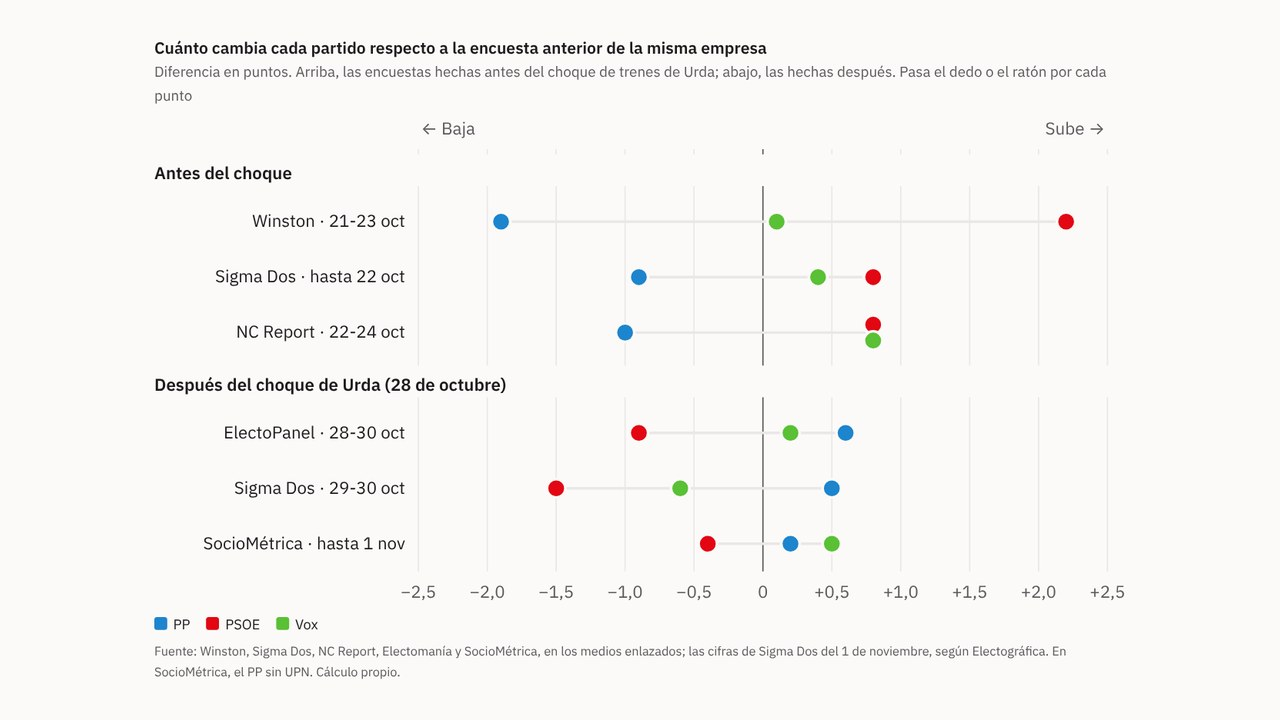
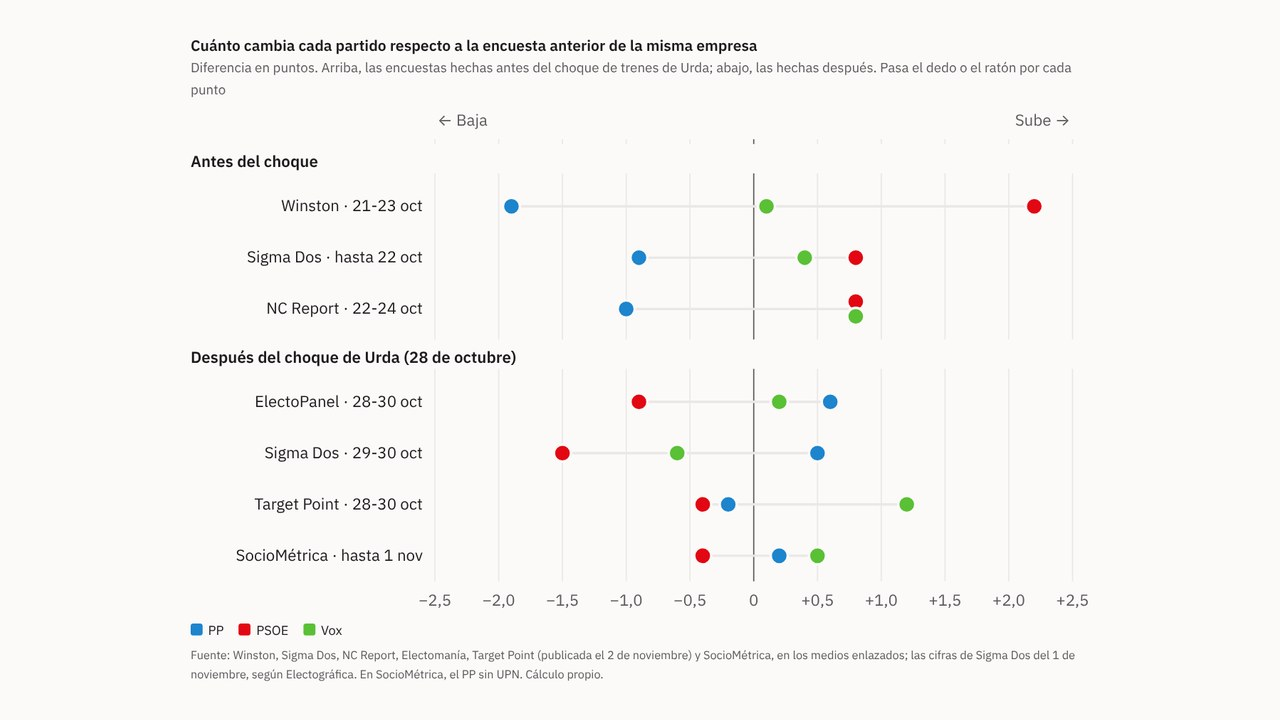
Encuestas tras Urda: correcciones del editor (Target Point en el gráfico, «hechas después del choque»)
Claude-Session: https://claude.ai/code/session_01QuTKNEe4qRt6ao42Xv59ca

diff --git a/actualidad/encuestas-antes-despues-urda-29n/index.html b/actualidad/encuestas-antes-despues-urda-29n/index.html
@@ -40,7 +40,7 @@
  "mainEntityOfPage": "https://mapaelectoral.es/actualidad/encuestas-antes-despues-urda-29n/",
  "inLanguage": "es",
  "datePublished": "2026-11-02",
- "dateModified": "2026-11-03T07:57:00+01:00",
+ "dateModified": "2026-11-03T08:07:00+01:00",
  "image": [
   "https://mapaelectoral.es/img/actualidad/fotos/encuestas-antes-despues-urda-29n.jpg",
   "https://mapaelectoral.es/img/compartir/actualidad-encuestas-antes-despues-urda-29n.jpg"
@@ -221,22 +221,22 @@ aside.municipios-pieza .prov{color:var(--muted);font-size:.9em}
 <p class="kicker"><a href="../">Actualidad</a> · Las encuestas, semana a semana · España</p>
 <h1>Cuatro de cuatro: el PSOE baja en todas las encuestas hechas tras el choque de Urda</h1>
 <p class="dek">En las encuestas con trabajo de campo anterior al 28 de octubre, el PSOE ganaba entre ocho décimas y algo más de dos puntos respecto a la anterior de la misma empresa. En las cuatro hechas después, pierde entre cuatro décimas y punto y medio. Nuestro modelo da hoy a PP y Vox 200 escaños.</p>
-<p class="firma">Por <a href="../../sobre-mi.html">Nacho G. del Álamo</a> · <time datetime="2026-11-02">2 de noviembre de 2026</time> · Actualizado el <time datetime="2026-11-03T07:57:00+01:00">3 de noviembre de 2026, a las 07.57</time></p>
+<p class="firma">Por <a href="../../sobre-mi.html">Nacho G. del Álamo</a> · <time datetime="2026-11-02">2 de noviembre de 2026</time> · Actualizado el <time datetime="2026-11-03T08:07:00+01:00">3 de noviembre de 2026, a las 08.07</time></p>
 <figure class="foto"><img src="../../img/actualidad/fotos/encuestas-antes-despues-urda-29n.jpg" alt="Dos montones de cuestionarios separados por un desgarro, uno sobre rojo y otro sobre azul bajo una lupa, junto a una urna: un collage." width="1280" height="720"><figcaption>Dos montones de cuestionarios separados por un desgarro, uno sobre rojo y otro sobre azul bajo una lupa, junto a una urna: un collage. Ilustración generada con IA para Mapa Electoral. <a href="../../atlas/politica-editorial/#ia">Uso de IA</a>.</figcaption></figure>
 <p class="etiquetas">Cada párrafo lleva una etiqueta: <b>dato</b> (cifra comprobable con las fuentes), <b>patrón</b> (relación que se repite, sin afirmar la causa), <b>hipótesis</b> (explicación posible, sin dos fuentes independientes) o <b>contexto</b> (hechos y declaraciones publicados por otros, enlazados). <a href="../../atlas/politica-editorial/#verificacion">Cómo verificamos</a></p>
 <div style="margin-top:1.4rem"></div>
 <style>:root{--podemos:#5a3c8f}@media (prefers-color-scheme: dark){:root:not([data-theme="light"]){--podemos:#8a6fe0}}:root[data-theme="dark"]{--podemos:#8a6fe0}blockquote.cita{margin:1.8rem 0;padding:.2rem 0 .2rem 1.1rem;border-left:3px solid var(--rule)}blockquote.cita p{font-size:1.12rem;line-height:1.5;margin:0 0 .4rem}blockquote.cita footer{font-family:var(--ui);font-size:.95rem;color:var(--muted)}</style>
 <p data-tipo="contexto"><span class="tipo t-contexto">Contexto</span>El miércoles 28 de octubre, a las 8.53, un AVE que iba de Madrid a Sevilla chocó contra la cola de un tren de Iryo entre Los Yébenes y Urda, en Toledo. Han muerto 69 personas, según el último balance recogido por <a href="https://rtvc.es/ultima-hora-accidente-trenes-ave-yryo-sevilla-madrid-toledo-directo-heridos-30-octubre-2026/">RTVC</a>. Es el segundo accidente ferroviario grave del año, después del de Adamuz (Córdoba) en enero, como recuerda <a href="https://maldita.es/desinfo/20261028/preguntas-respuestas-accidente-tren-urda/">Maldita</a>. Desde entonces, el PP pide la dimisión del ministro de Transportes, Óscar Puente, que es candidato del PSOE por Valladolid, según <a href="https://www.democrata.es/politica/pp-exige-dimision-oscar-puente-accidente-tren-urda/">Demócrata</a>. Puente ha descartado dimitir.</p>
 <p data-tipo="contexto"><span class="tipo t-contexto">Contexto</span>Esta es la segunda entrega de nuestro repaso semanal de las encuestas. Como en la <a href="https://mapaelectoral.es/actualidad/encuestas-semana-29n/">primera</a>, comparamos cada sondeo con el anterior de la misma empresa, porque cada casa tiene su método y mezclarlas confunde lo que se mueve con lo que es distinto. Esta semana, además, el calendario parte las encuestas en dos: las que se hicieron antes del choque y las que se hicieron después.</p>
-<div class="caja"><p data-tipo="dato"><span class="tipo t-dato">Dato</span><strong>Actualización del 3 de noviembre.</strong> El lunes se publicaron tres encuestas más, y la que se hizo entera después del choque sigue el mismo patrón. La de <a href="https://www.eldebate.com/espana/20261102/accidente-frena-psoe-amplia-apoyo-pp-mayoria-absolutisima-derecha_475640.html">Target Point para El Debate</a>, con campo del 28 al 30 de octubre, deja al PSOE en el 25,5%, cuatro décimas menos que en su entrega anterior, del 6 al 9 de octubre; el PP baja dos décimas, al 31,8%, y Vox sube 1,2 puntos, al 19,9%. La de <a href="https://www.vozpopuli.com/espana/politica/pp-y-vox-suman-ya-un-techo-historico-de-127-millones-de-votos-y-lograrian-205-escanos.html">Hamalgama Métrica para Vozpópuli</a> se hizo del 22 al 28 de octubre, casi toda antes del accidente, y es la contraria: el PSOE sube 1,1 puntos, al 26,4%, y el PP baja un punto, al 32,4%. La de <a href="https://www.larazon.es/espana/psoe-frena-efecto-remontada-derecha-consolida-mayoria-absoluta_202611026ae783220250123215703bb1.html">NC Report para La Razón</a>, del 26 al 29 de octubre, a caballo del choque, apenas se mueve respecto a la de la semana anterior: PSOE 25,6% (dos décimas menos), PP 33,0% (una menos) y Vox 19,3% (tres más). Las fechas de campo son las que recoge <a href="https://en.wikipedia.org/wiki/Opinion_polling_for_the_2026_Spanish_general_election">Wikipedia</a>.</p></div>
-<p data-tipo="dato"><span class="tipo t-dato">Dato</span>Con la de Target Point, son cuatro las encuestas con todo el trabajo de campo posterior al 28 de octubre, y en las cuatro el PSOE baja respecto a la anterior de la misma empresa. Con las nuevas, <a href="https://mapaelectoral.es/encuestas/metodo-modelo.html">nuestro modelo</a> da hoy a PP y Vox 200 escaños (PP 130, PSOE 104, Vox 70) y la mayoría absoluta en el 94% de las simulaciones. El resto de la pieza es el análisis del 2 de noviembre.</p>
-<h2>Seis encuestas, dos direcciones</h2>
+<div class="caja"><p data-tipo="dato"><span class="tipo t-dato">Dato</span><strong>Actualización del 3 de noviembre.</strong> El lunes se publicaron tres encuestas más, y la que se hizo después del choque sigue el mismo patrón. La de <a href="https://www.eldebate.com/espana/20261102/accidente-frena-psoe-amplia-apoyo-pp-mayoria-absolutisima-derecha_475640.html">Target Point para El Debate</a>, con campo del 28 al 30 de octubre, deja al PSOE en el 25,5%, cuatro décimas menos que en su entrega anterior, del 6 al 9 de octubre; el PP baja dos décimas, al 31,8%, y Vox sube 1,2 puntos, al 19,9%. La de <a href="https://www.vozpopuli.com/espana/politica/pp-y-vox-suman-ya-un-techo-historico-de-127-millones-de-votos-y-lograrian-205-escanos.html">Hamalgama Métrica para Vozpópuli</a> se hizo del 22 al 28 de octubre, casi toda antes del accidente, y es la contraria: el PSOE sube 1,1 puntos, al 26,4%, y el PP baja un punto, al 32,4%. La de <a href="https://www.larazon.es/espana/psoe-frena-efecto-remontada-derecha-consolida-mayoria-absoluta_202611026ae783220250123215703bb1.html">NC Report para La Razón</a>, del 26 al 29 de octubre, a caballo del choque, apenas se mueve respecto a la de la semana anterior: PSOE 25,6% (dos décimas menos), PP 33,0% (una menos) y Vox 19,3% (tres más). Las fechas de campo son las que recoge <a href="https://en.wikipedia.org/wiki/Opinion_polling_for_the_2026_Spanish_general_election">Wikipedia</a>.</p></div>
+<p data-tipo="dato"><span class="tipo t-dato">Dato</span>Con la de Target Point, son cuatro las encuestas hechas después del choque, y en las cuatro el PSOE baja respecto a la anterior de la misma empresa. Con las nuevas, <a href="https://mapaelectoral.es/encuestas/metodo-modelo.html">nuestro modelo</a> da hoy a PP y Vox 200 escaños (PP 130, PSOE 104, Vox 70) y la mayoría absoluta en el 94% de las simulaciones. El resto de la pieza es el análisis del 2 de noviembre.</p>
+<h2>Dos direcciones: antes y después del choque</h2>
 <p data-tipo="dato"><span class="tipo t-dato">Dato</span>Entre el lunes 26 de octubre y el domingo 1 de noviembre se publicaron siete encuestas nacionales con estimación de voto. Seis tienen una entrega reciente de la misma empresa con la que compararlas. Tres se hicieron antes del accidente: la de <a href="https://www.articulo14.es/politica/encuesta-articulo14-el-psoe-se-coloca-6-escanos-del-pp-que-mantiene-una-mayoria-de-190-escanos-con-vox-20261026.html">Winston para Artículo14</a>, la de <a href="https://www.sigmados.com/noticia?id=OUze2FxEIVfARtu3">Sigma Dos para El Mundo</a> del 26 de octubre y la de <a href="https://www.larazon.es/espana/18-votantes-socialistas-apoyan-hoy-vox_202610266adea62a3eef771e1ac8d43d.html">NC Report para La Razón</a>. Tres, después: el <a href="https://electomania.es/electopanel-1-nov-el-psoe-baja-y-vuelve-a-minimos/">ElectoPanel de Electomanía</a>, con campo del 28 al 30 de octubre; la nueva de <a href="https://www.electografica.com/2026/11/encuesta-sigmados-261101.html">Sigma Dos</a>, del 29 y el 30, y la de <a href="https://www.elespanol.com/espana/politica/20261101/primer-sondeo-tragedia-pp-vox-amplian-ventaja-sanchez-sigue-cayendo-pese-vaciar-frente-amplio/1003744442810_0.html">SocioMétrica para El Español</a>, publicada el domingo.</p>
 <figure>
 <figcaption><span class="t">Cuánto cambia cada partido respecto a la encuesta anterior de la misma empresa</span><span class="s">Diferencia en puntos. Arriba, las encuestas hechas antes del choque de trenes de Urda; abajo, las hechas después. Pasa el dedo o el ratón por cada punto</span></figcaption>
 <div class="chart" id="cambios"></div>
 <div class="legend"><span><i class="sw" style="background:var(--pp)"></i>PP</span><span><i class="sw" style="background:var(--psoe)"></i>PSOE</span><span><i class="sw" style="background:var(--vox)"></i>Vox</span></div>
-<div class="src">Fuente: Winston, Sigma Dos, NC Report, Electomanía y SocioMétrica, en los medios enlazados; las cifras de Sigma Dos del 1 de noviembre, según Electográfica. En SocioMétrica, el PP sin UPN. Cálculo propio.</div>
+<div class="src">Fuente: Winston, Sigma Dos, NC Report, Electomanía, Target Point (publicada el 2 de noviembre) y SocioMétrica, en los medios enlazados; las cifras de Sigma Dos del 1 de noviembre, según Electográfica. En SocioMétrica, el PP sin UPN. Cálculo propio.</div>
 <details><summary>Ver las cifras</summary><div class="tbl" id="cambios-tbl"></div></details>
 </figure>
 <p data-tipo="dato"><span class="tipo t-dato">Dato</span>En las tres anteriores al choque, <strong>el PSOE sube</strong>: 2,2 puntos en Winston y 0,8 en Sigma Dos y en NC Report. El PP baja en las tres, entre 0,9 y 1,9 puntos. En las tres posteriores pasa lo contrario: <strong>el PSOE baja</strong> 0,9 puntos en el ElectoPanel, 1,5 en Sigma Dos y 0,4 en SocioMétrica, y el PP sube entre dos y seis décimas.</p>
@@ -272,7 +272,7 @@ aside.municipios-pieza .prov{color:var(--muted);font-size:.9em}
 <dt>Fuentes</dt><dd><ul><li><a href="https://www.articulo14.es/politica/encuesta-articulo14-el-psoe-se-coloca-6-escanos-del-pp-que-mantiene-una-mayoria-de-190-escanos-con-vox-20261026.html">Winston para Artículo14 (26-10-2026)</a></li><li><a href="https://www.sigmados.com/noticia?id=OUze2FxEIVfARtu3">Sigma Dos para El Mundo (26-10-2026)</a></li><li><a href="https://www.larazon.es/espana/18-votantes-socialistas-apoyan-hoy-vox_202610266adea62a3eef771e1ac8d43d.html">NC Report para La Razón (26-10-2026)</a></li><li><a href="https://electomania.es/electopanel-1-nov-el-psoe-baja-y-vuelve-a-minimos/">ElectoPanel de Electomanía (1-11-2026)</a></li><li><a href="https://www.electografica.com/2026/11/encuesta-sigmados-261101.html">Electográfica, encuesta de Sigma Dos para El Mundo (1-11-2026)</a></li><li><a href="https://www.elespanol.com/espana/politica/20261101/primer-sondeo-tragedia-pp-vox-amplian-ventaja-sanchez-sigue-cayendo-pese-vaciar-frente-amplio/1003744442810_0.html">SocioMétrica para El Español (1-11-2026)</a></li><li><a href="https://www.lavozdegalicia.es/noticia/espana/2026/11/01/pp-ganaria-elecciones-23-puntos-ventaja-sobre-psoe/0003_202611G1P26991.htm">Sondaxe para La Voz de Galicia (1-11-2026)</a></li><li><a href="https://theobjective.com/espana/2026-11-01/sondeo-vox-71-escanos/">The Objective, sondeo atribuido a Vox (1-11-2026)</a></li><li><a href="https://democrata.es/encuestas/elecciones-generales/encuesta-elecciones-generales-sondeo-interno-vox-anterior-urda-situa-psoe-por-delante-pp-pero-mantiene-mayoria-derecha">Demócrata, Vox desmiente el sondeo (1-11-2026)</a></li><li><a href="https://maldita.es/desinfo/20261028/preguntas-respuestas-accidente-tren-urda/">Maldita, preguntas y respuestas sobre el accidente de Urda (28-10-2026)</a></li><li><a href="https://rtvc.es/ultima-hora-accidente-trenes-ave-yryo-sevilla-madrid-toledo-directo-heridos-30-octubre-2026/">RTVC, balance del accidente de Urda (30-10-2026)</a></li><li><a href="https://www.democrata.es/politica/pp-exige-dimision-oscar-puente-accidente-tren-urda/">Demócrata, el PP exige la dimisión de Óscar Puente</a></li><li><a href="https://mapaelectoral.es/encuestas/metodo-modelo.html">Mapa Electoral, método del modelo de escaños</a></li></ul></dd>
 <dt>Autoría</dt><dd>Nacho G. del Álamo</dd>
 <dt>Revisión de datos y texto</dt><dd>Nacho G. del Álamo, 2 de noviembre de 2026</dd>
-<dt>Publicado · actualizado</dt><dd>2 de noviembre de 2026 · 3 de noviembre de 2026, a las 07.57</dd>
+<dt>Publicado · actualizado</dt><dd>2 de noviembre de 2026 · 3 de noviembre de 2026, a las 08.07</dd>
 <dt>Correcciones</dt><dd>Ninguna.</dd>
 </dl>
 <h2>Serie «Camino al 29N»: 105 piezas</h2><ol class="serie"><li><a href="../mujeres-jovenes-voto-29n/"><b>El voto a Vox de las mujeres jóvenes se ha triplicado desde 2023, y la izquierda ha perdido 13 puntos entre ellas</b></a></li><li><a href="../psoe-primera-fuerza-29n/"><b>El PP saca 6 puntos al PSOE en las encuestas: ni el mayor fallo de la última década, el de 2023, daría el sorpasso que anuncia Iván Redondo</b></a></li><li><a href="../encuestas-semana-29n/"><b>El PP baja en las cinco encuestas de la semana, pero con Vox sigue sumando mayoría absoluta en todas</b></a></li><li><a href="../alvise-salf-donde-vota-29n/"><b>Madrid es la puerta más cercana de Alvise al Congreso: le basta el 3% y las encuestas le dan el 2%</b></a></li><li><a href="../feijoo-albiol-barcelona-disturbios-29n/"><b>Feijóo busca el voto del orden en la comunidad que más cita la inseguridad</b></a></li><li><a href="../dana-pueblos-primeras-generales-29n/"><b>Dos años de la DANA: sus 74 pueblos llegan al 29N partidos, 38 del PSOE y 36 del PP</b></a></li><li><a href="../puente-valladolid-segundo-escano-29n/"><b>Puente descarta dimitir y se juega en Valladolid el escaño de su número dos: sale en el 54%</b></a></li><li><a href="../rufian-montero-la-revuelta-29n/"><b>Rufián le guarda a Podemos el puesto 6: sale en 7 de cada 10 simulaciones</b></a></li><li><a href="../comuns-psc-senado-girona-lleida-tarragona-29n/"><b>Sin los Comuns, Vox podría ganar el Senado en Tarragona</b></a></li><li><a href="../pacto-pp-vox-senado-provincias-29n/"><b>PP y Vox pactan el Senado: con las encuestas sumarían entre 158 y 163 senadores, alrededor de los 160 que necesitan para renovar el Constitucional sin el PSOE</b></a></li><li><a href="../listas-29n-quien-encabeza/"><b>¿Sale tu candidato? Con las listas oficiales del BOE, 250 escaños están casi decididos y 204 candidatos se juegan los otros 100</b></a></li><li><a href="../voto-correo-29n/"><b>Siete de cada cien electores pidieron votar por correo en 2023, más del triple que en 2015: en Bizkaia, 14; en Girona, 3</b></a></li><li><a href="../corrupcion-penaliza-voto-29n/"><b>29N: la corrupción le cuesta votos al PSOE, pero apenas se los da al PP</b></a></li><li><a href="../adelante-andalucia-psoe-29n/"><b>Uno de cada tres votantes de Adelante venía del PSOE, pero el mapa andaluz no muestra la fuga</b></a></li><li><a href="../inmigracion-cuesta-votos-psoe-29n/"><b>La inmigración ya le cuesta votos al PSOE, no solo al PP</b></a></li><li><a href="../quien-vota-barrios-renta-edad-inmigracion/"><b>En los barrios ricos se vota 15 puntos más que en los pobres, y en las europeas, 22: quién vota en España según la renta, la edad y la inmigración</b></a></li><li><a href="../barrios-caseros-inquilinos-voto-29n/"><b>Donde viven los caseros gana el PP; donde viven los inquilinos, gana la abstención</b></a></li><li><a href="../me-ha-tocado-mesa-electoral-29n/"><b>En los pueblos de menos de 100 electores, la mesa necesita a uno de cada seis vecinos; en las ciudades, a uno de cada setenta</b></a></li><li aria-current="page"><span class="kicker">Estás aquí</span><b>Cuatro de cuatro: el PSOE baja en todas las encuestas hechas tras el choque de Urda</b></li><li><a href="../banez-huelva-pp-29n/"><b>Fátima Báñez encabezó seis veces la lista del PP en Huelva: ganó la provincia una vez, y nunca en su pueblo</b></a></li><li class="todas"><a href="../#29n"><b>Ver las 105 piezas de la serie</b></a></li></ol>
@@ -282,7 +282,7 @@ aside.municipios-pieza .prov{color:var(--muted);font-size:.9em}
 </main>
 <script>
 const NS='http://www.w3.org/2000/svg';
-const CAM=[["Winston", "Artículo14", "21-23 oct", 0, "1 oct", [31.3, 24.9, 19.1], [29.4, 27.1, 19.2]], ["Sigma Dos", "El Mundo", "hasta 22 oct", 0, "14 oct", [31.5, 25.3, 19.5], [30.6, 26.1, 19.9]], ["NC Report", "La Razón", "22-24 oct", 0, "6 oct", [34.1, 25.0, 18.2], [33.1, 25.8, 19.0]], ["ElectoPanel", "Electomanía", "28-30 oct", 1, "25 oct", [30.9, 26.7, 19.0], [31.5, 25.8, 19.2]], ["Sigma Dos", "El Mundo", "29-30 oct", 1, "26 oct", [30.6, 26.1, 19.9], [31.1, 24.6, 19.3]], ["SocioMétrica", "El Español", "hasta 1 nov", 1, "25 oct", [32.0, 27.0, 18.6], [32.2, 26.6, 19.1]]], SEM=[{"d": "2026-08-30", "PP": 32.3, "PSOE": 25.7, "VOX": 18.1, "SUMAR": 6.4, "PODEMOS": 3.6, "SALF": 1.9}, {"d": "2026-09-06", "PP": 32.0, "PSOE": 26.1, "VOX": 18.1, "SUMAR": 6.3, "PODEMOS": 3.6, "SALF": 1.8}, {"d": "2026-09-13", "PP": 32.3, "PSOE": 25.9, "VOX": 18.5, "SUMAR": 6.2, "PODEMOS": 3.4, "SALF": 1.9}, {"d": "2026-09-20", "PP": 32.2, "PSOE": 25.9, "VOX": 18.8, "SUMAR": 5.9, "PODEMOS": 3.3, "SALF": 1.9}, {"d": "2026-09-27", "PP": 33.7, "PSOE": 25.6, "VOX": 18.6, "SUMAR": 6.1, "PODEMOS": 3.3, "SALF": 1.9}, {"d": "2026-10-04", "PP": 33.2, "PSOE": 26.3, "VOX": 18.4, "SUMAR": 6.3, "PODEMOS": 3.3, "SALF": 1.7}, {"d": "2026-10-11", "PP": 32.0, "PSOE": 26.2, "VOX": 18.8, "SUMAR": 6.3, "PODEMOS": 3.2, "SALF": 1.8}, {"d": "2026-10-18", "PP": 31.9, "PSOE": 26.3, "VOX": 18.9, "SUMAR": 6.2, "PODEMOS": 3.0, "SALF": 1.8}, {"d": "2026-10-25", "PP": 31.4, "PSOE": 27.0, "VOX": 18.9, "SUMAR": 6.6, "PODEMOS": 2.6, "SALF": 1.8}, {"d": "2026-11-01", "PP": 31.1, "PSOE": 26.8, "VOX": 19.2, "SUMAR": 7.0, "PODEMOS": 1.9, "SALF": 2.0}];
+const CAM=[["Winston", "Artículo14", "21-23 oct", 0, "1 oct", [31.3, 24.9, 19.1], [29.4, 27.1, 19.2]], ["Sigma Dos", "El Mundo", "hasta 22 oct", 0, "14 oct", [31.5, 25.3, 19.5], [30.6, 26.1, 19.9]], ["NC Report", "La Razón", "22-24 oct", 0, "6 oct", [34.1, 25.0, 18.2], [33.1, 25.8, 19.0]], ["ElectoPanel", "Electomanía", "28-30 oct", 1, "25 oct", [30.9, 26.7, 19.0], [31.5, 25.8, 19.2]], ["Sigma Dos", "El Mundo", "29-30 oct", 1, "26 oct", [30.6, 26.1, 19.9], [31.1, 24.6, 19.3]], ["Target Point", "El Debate", "28-30 oct", 1, "6-9 oct", [32.0, 25.9, 18.7], [31.8, 25.5, 19.9]], ["SocioMétrica", "El Español", "hasta 1 nov", 1, "25 oct", [32.0, 27.0, 18.6], [32.2, 26.6, 19.1]]], SEM=[{"d": "2026-08-30", "PP": 32.3, "PSOE": 25.7, "VOX": 18.1, "SUMAR": 6.4, "PODEMOS": 3.6, "SALF": 1.9}, {"d": "2026-09-06", "PP": 32.0, "PSOE": 26.1, "VOX": 18.1, "SUMAR": 6.3, "PODEMOS": 3.6, "SALF": 1.8}, {"d": "2026-09-13", "PP": 32.3, "PSOE": 25.9, "VOX": 18.5, "SUMAR": 6.2, "PODEMOS": 3.4, "SALF": 1.9}, {"d": "2026-09-20", "PP": 32.2, "PSOE": 25.9, "VOX": 18.8, "SUMAR": 5.9, "PODEMOS": 3.3, "SALF": 1.9}, {"d": "2026-09-27", "PP": 33.7, "PSOE": 25.6, "VOX": 18.6, "SUMAR": 6.1, "PODEMOS": 3.3, "SALF": 1.9}, {"d": "2026-10-04", "PP": 33.2, "PSOE": 26.3, "VOX": 18.4, "SUMAR": 6.3, "PODEMOS": 3.3, "SALF": 1.7}, {"d": "2026-10-11", "PP": 32.0, "PSOE": 26.2, "VOX": 18.8, "SUMAR": 6.3, "PODEMOS": 3.2, "SALF": 1.8}, {"d": "2026-10-18", "PP": 31.9, "PSOE": 26.3, "VOX": 18.9, "SUMAR": 6.2, "PODEMOS": 3.0, "SALF": 1.8}, {"d": "2026-10-25", "PP": 31.4, "PSOE": 27.0, "VOX": 18.9, "SUMAR": 6.6, "PODEMOS": 2.6, "SALF": 1.8}, {"d": "2026-11-01", "PP": 31.1, "PSOE": 26.8, "VOX": 19.2, "SUMAR": 7.0, "PODEMOS": 1.9, "SALF": 2.0}];
 const P3=[['PP','--pp'],['PSOE','--psoe'],['Vox','--vox']];
 const PART=[['PP','PP','--pp'],['PSOE','PSOE','--psoe'],['VOX','Vox','--vox'],['SUMAR','Frente Amplio','--sumar'],['PODEMOS','Podemos','--podemos']];
 function el(n,a,p){const e=document.createElementNS(NS,n);for(const k in a)e.setAttribute(k,a[k]);if(p)p.appendChild(e);return e}
@@ -294,7 +294,7 @@ const c1=v=>v.toFixed(1).replace('.',',').replace('-','−'),sg=v=>(v>0?'+':v===
 (function(){const box=document.getElementById('cambios'),tip=tipFor(box);
  const W=Math.max(300,box.clientWidth||640),n=W<500,rh=n?50:42,gap=34,m={l:n?8:200,r:14,t:24,b:26},lo=-2.5,hi=2.5;
  const H=m.t+m.b+rh*CAM.length+gap*2,x=v=>m.l+(v-lo)/(hi-lo)*(W-m.l-m.r);
- const svg=el('svg',{viewBox:`0 0 ${W} ${H}`,role:'img','aria-label':'Cambio de PP, PSOE y Vox en las seis encuestas de la semana respecto a la anterior de cada empresa, antes y después del choque de trenes de Urda'},box);
+ const svg=el('svg',{viewBox:`0 0 ${W} ${H}`,role:'img','aria-label':'Cambio de PP, PSOE y Vox en las siete encuestas de la semana respecto a la anterior de cada empresa, antes y después del choque de trenes de Urda'},box);
  el('text',{x:x(lo)+2,y:13},svg).textContent='← Baja';el('text',{x:x(hi)-2,y:13,'text-anchor':'end'},svg).textContent='Sube →';
  for(let v=lo;v<=hi;v+=.5){if(n&&v%1)continue;el('line',{x1:x(v),x2:x(v),y1:m.t,y2:H-m.b,stroke:v===0?'var(--muted)':'var(--grid)'},svg);el('text',{x:x(v),y:H-6,'text-anchor':'middle'},svg).textContent=v===0?'0':sg(v)}
  let y=m.t;

diff --git a/actualidad/src/encuestas-antes-despues-urda-29n.html b/actualidad/src/encuestas-antes-despues-urda-29n.html
@@ -57,15 +57,15 @@ a{color:var(--comuns)} a:focus-visible,summary:focus-visible{outline:2px solid v
 <style>:root{--podemos:#5a3c8f}@media (prefers-color-scheme: dark){:root:not([data-theme="light"]){--podemos:#8a6fe0}}:root[data-theme="dark"]{--podemos:#8a6fe0}blockquote.cita{margin:1.8rem 0;padding:.2rem 0 .2rem 1.1rem;border-left:3px solid var(--rule)}blockquote.cita p{font-size:1.12rem;line-height:1.5;margin:0 0 .4rem}blockquote.cita footer{font-family:var(--ui);font-size:.95rem;color:var(--muted)}</style>
 <p data-tipo="contexto">El miércoles 28 de octubre, a las 8.53, un AVE que iba de Madrid a Sevilla chocó contra la cola de un tren de Iryo entre Los Yébenes y Urda, en Toledo. Han muerto 69 personas, según el último balance recogido por <a href="https://rtvc.es/ultima-hora-accidente-trenes-ave-yryo-sevilla-madrid-toledo-directo-heridos-30-octubre-2026/">RTVC</a>. Es el segundo accidente ferroviario grave del año, después del de Adamuz (Córdoba) en enero, como recuerda <a href="https://maldita.es/desinfo/20261028/preguntas-respuestas-accidente-tren-urda/">Maldita</a>. Desde entonces, el PP pide la dimisión del ministro de Transportes, Óscar Puente, que es candidato del PSOE por Valladolid, según <a href="https://www.democrata.es/politica/pp-exige-dimision-oscar-puente-accidente-tren-urda/">Demócrata</a>. Puente ha descartado dimitir.</p>
 <p data-tipo="contexto">Esta es la segunda entrega de nuestro repaso semanal de las encuestas. Como en la <a href="https://mapaelectoral.es/actualidad/encuestas-semana-29n/">primera</a>, comparamos cada sondeo con el anterior de la misma empresa, porque cada casa tiene su método y mezclarlas confunde lo que se mueve con lo que es distinto. Esta semana, además, el calendario parte las encuestas en dos: las que se hicieron antes del choque y las que se hicieron después.</p>
-<div class="caja"><p data-tipo="dato"><strong>Actualización del 3 de noviembre.</strong> El lunes se publicaron tres encuestas más, y la que se hizo entera después del choque sigue el mismo patrón. La de <a href="https://www.eldebate.com/espana/20261102/accidente-frena-psoe-amplia-apoyo-pp-mayoria-absolutisima-derecha_475640.html">Target Point para El Debate</a>, con campo del 28 al 30 de octubre, deja al PSOE en el 25,5%, cuatro décimas menos que en su entrega anterior, del 6 al 9 de octubre; el PP baja dos décimas, al 31,8%, y Vox sube 1,2 puntos, al 19,9%. La de <a href="https://www.vozpopuli.com/espana/politica/pp-y-vox-suman-ya-un-techo-historico-de-127-millones-de-votos-y-lograrian-205-escanos.html">Hamalgama Métrica para Vozpópuli</a> se hizo del 22 al 28 de octubre, casi toda antes del accidente, y es la contraria: el PSOE sube 1,1 puntos, al 26,4%, y el PP baja un punto, al 32,4%. La de <a href="https://www.larazon.es/espana/psoe-frena-efecto-remontada-derecha-consolida-mayoria-absoluta_202611026ae783220250123215703bb1.html">NC Report para La Razón</a>, del 26 al 29 de octubre, a caballo del choque, apenas se mueve respecto a la de la semana anterior: PSOE 25,6% (dos décimas menos), PP 33,0% (una menos) y Vox 19,3% (tres más). Las fechas de campo son las que recoge <a href="https://en.wikipedia.org/wiki/Opinion_polling_for_the_2026_Spanish_general_election">Wikipedia</a>.</p></div>
-<p data-tipo="dato">Con la de Target Point, son cuatro las encuestas con todo el trabajo de campo posterior al 28 de octubre, y en las cuatro el PSOE baja respecto a la anterior de la misma empresa. Con las nuevas, <a href="https://mapaelectoral.es/encuestas/metodo-modelo.html">nuestro modelo</a> da hoy a PP y Vox 200 escaños (PP 130, PSOE 104, Vox 70) y la mayoría absoluta en el 94% de las simulaciones. El resto de la pieza es el análisis del 2 de noviembre.</p>
-<h2>Seis encuestas, dos direcciones</h2>
+<div class="caja"><p data-tipo="dato"><strong>Actualización del 3 de noviembre.</strong> El lunes se publicaron tres encuestas más, y la que se hizo después del choque sigue el mismo patrón. La de <a href="https://www.eldebate.com/espana/20261102/accidente-frena-psoe-amplia-apoyo-pp-mayoria-absolutisima-derecha_475640.html">Target Point para El Debate</a>, con campo del 28 al 30 de octubre, deja al PSOE en el 25,5%, cuatro décimas menos que en su entrega anterior, del 6 al 9 de octubre; el PP baja dos décimas, al 31,8%, y Vox sube 1,2 puntos, al 19,9%. La de <a href="https://www.vozpopuli.com/espana/politica/pp-y-vox-suman-ya-un-techo-historico-de-127-millones-de-votos-y-lograrian-205-escanos.html">Hamalgama Métrica para Vozpópuli</a> se hizo del 22 al 28 de octubre, casi toda antes del accidente, y es la contraria: el PSOE sube 1,1 puntos, al 26,4%, y el PP baja un punto, al 32,4%. La de <a href="https://www.larazon.es/espana/psoe-frena-efecto-remontada-derecha-consolida-mayoria-absoluta_202611026ae783220250123215703bb1.html">NC Report para La Razón</a>, del 26 al 29 de octubre, a caballo del choque, apenas se mueve respecto a la de la semana anterior: PSOE 25,6% (dos décimas menos), PP 33,0% (una menos) y Vox 19,3% (tres más). Las fechas de campo son las que recoge <a href="https://en.wikipedia.org/wiki/Opinion_polling_for_the_2026_Spanish_general_election">Wikipedia</a>.</p></div>
+<p data-tipo="dato">Con la de Target Point, son cuatro las encuestas hechas después del choque, y en las cuatro el PSOE baja respecto a la anterior de la misma empresa. Con las nuevas, <a href="https://mapaelectoral.es/encuestas/metodo-modelo.html">nuestro modelo</a> da hoy a PP y Vox 200 escaños (PP 130, PSOE 104, Vox 70) y la mayoría absoluta en el 94% de las simulaciones. El resto de la pieza es el análisis del 2 de noviembre.</p>
+<h2>Dos direcciones: antes y después del choque</h2>
 <p data-tipo="dato">Entre el lunes 26 de octubre y el domingo 1 de noviembre se publicaron siete encuestas nacionales con estimación de voto. Seis tienen una entrega reciente de la misma empresa con la que compararlas. Tres se hicieron antes del accidente: la de <a href="https://www.articulo14.es/politica/encuesta-articulo14-el-psoe-se-coloca-6-escanos-del-pp-que-mantiene-una-mayoria-de-190-escanos-con-vox-20261026.html">Winston para Artículo14</a>, la de <a href="https://www.sigmados.com/noticia?id=OUze2FxEIVfARtu3">Sigma Dos para El Mundo</a> del 26 de octubre y la de <a href="https://www.larazon.es/espana/18-votantes-socialistas-apoyan-hoy-vox_202610266adea62a3eef771e1ac8d43d.html">NC Report para La Razón</a>. Tres, después: el <a href="https://electomania.es/electopanel-1-nov-el-psoe-baja-y-vuelve-a-minimos/">ElectoPanel de Electomanía</a>, con campo del 28 al 30 de octubre; la nueva de <a href="https://www.electografica.com/2026/11/encuesta-sigmados-261101.html">Sigma Dos</a>, del 29 y el 30, y la de <a href="https://www.elespanol.com/espana/politica/20261101/primer-sondeo-tragedia-pp-vox-amplian-ventaja-sanchez-sigue-cayendo-pese-vaciar-frente-amplio/1003744442810_0.html">SocioMétrica para El Español</a>, publicada el domingo.</p>
 <figure>
 <figcaption><span class="t">Cuánto cambia cada partido respecto a la encuesta anterior de la misma empresa</span><span class="s">Diferencia en puntos. Arriba, las encuestas hechas antes del choque de trenes de Urda; abajo, las hechas después. Pasa el dedo o el ratón por cada punto</span></figcaption>
 <div class="chart" id="cambios"></div>
 <div class="legend"><span><i class="sw" style="background:var(--pp)"></i>PP</span><span><i class="sw" style="background:var(--psoe)"></i>PSOE</span><span><i class="sw" style="background:var(--vox)"></i>Vox</span></div>
-<div class="src">Fuente: Winston, Sigma Dos, NC Report, Electomanía y SocioMétrica, en los medios enlazados; las cifras de Sigma Dos del 1 de noviembre, según Electográfica. En SocioMétrica, el PP sin UPN. Cálculo propio.</div>
+<div class="src">Fuente: Winston, Sigma Dos, NC Report, Electomanía, Target Point (publicada el 2 de noviembre) y SocioMétrica, en los medios enlazados; las cifras de Sigma Dos del 1 de noviembre, según Electográfica. En SocioMétrica, el PP sin UPN. Cálculo propio.</div>
 <details><summary>Ver las cifras</summary><div class="tbl" id="cambios-tbl"></div></details>
 </figure>
 <p data-tipo="dato">En las tres anteriores al choque, <strong>el PSOE sube</strong>: 2,2 puntos en Winston y 0,8 en Sigma Dos y en NC Report. El PP baja en las tres, entre 0,9 y 1,9 puntos. En las tres posteriores pasa lo contrario: <strong>el PSOE baja</strong> 0,9 puntos en el ElectoPanel, 1,5 en Sigma Dos y 0,4 en SocioMétrica, y el PP sube entre dos y seis décimas.</p>
@@ -96,7 +96,7 @@ a{color:var(--comuns)} a:focus-visible,summary:focus-visible{outline:2px solid v
 </main>
 <script>
 const NS='http://www.w3.org/2000/svg';
-const CAM=[["Winston", "Artículo14", "21-23 oct", 0, "1 oct", [31.3, 24.9, 19.1], [29.4, 27.1, 19.2]], ["Sigma Dos", "El Mundo", "hasta 22 oct", 0, "14 oct", [31.5, 25.3, 19.5], [30.6, 26.1, 19.9]], ["NC Report", "La Razón", "22-24 oct", 0, "6 oct", [34.1, 25.0, 18.2], [33.1, 25.8, 19.0]], ["ElectoPanel", "Electomanía", "28-30 oct", 1, "25 oct", [30.9, 26.7, 19.0], [31.5, 25.8, 19.2]], ["Sigma Dos", "El Mundo", "29-30 oct", 1, "26 oct", [30.6, 26.1, 19.9], [31.1, 24.6, 19.3]], ["SocioMétrica", "El Español", "hasta 1 nov", 1, "25 oct", [32.0, 27.0, 18.6], [32.2, 26.6, 19.1]]], SEM=[{"d": "2026-08-30", "PP": 32.3, "PSOE": 25.7, "VOX": 18.1, "SUMAR": 6.4, "PODEMOS": 3.6, "SALF": 1.9}, {"d": "2026-09-06", "PP": 32.0, "PSOE": 26.1, "VOX": 18.1, "SUMAR": 6.3, "PODEMOS": 3.6, "SALF": 1.8}, {"d": "2026-09-13", "PP": 32.3, "PSOE": 25.9, "VOX": 18.5, "SUMAR": 6.2, "PODEMOS": 3.4, "SALF": 1.9}, {"d": "2026-09-20", "PP": 32.2, "PSOE": 25.9, "VOX": 18.8, "SUMAR": 5.9, "PODEMOS": 3.3, "SALF": 1.9}, {"d": "2026-09-27", "PP": 33.7, "PSOE": 25.6, "VOX": 18.6, "SUMAR": 6.1, "PODEMOS": 3.3, "SALF": 1.9}, {"d": "2026-10-04", "PP": 33.2, "PSOE": 26.3, "VOX": 18.4, "SUMAR": 6.3, "PODEMOS": 3.3, "SALF": 1.7}, {"d": "2026-10-11", "PP": 32.0, "PSOE": 26.2, "VOX": 18.8, "SUMAR": 6.3, "PODEMOS": 3.2, "SALF": 1.8}, {"d": "2026-10-18", "PP": 31.9, "PSOE": 26.3, "VOX": 18.9, "SUMAR": 6.2, "PODEMOS": 3.0, "SALF": 1.8}, {"d": "2026-10-25", "PP": 31.4, "PSOE": 27.0, "VOX": 18.9, "SUMAR": 6.6, "PODEMOS": 2.6, "SALF": 1.8}, {"d": "2026-11-01", "PP": 31.1, "PSOE": 26.8, "VOX": 19.2, "SUMAR": 7.0, "PODEMOS": 1.9, "SALF": 2.0}];
+const CAM=[["Winston", "Artículo14", "21-23 oct", 0, "1 oct", [31.3, 24.9, 19.1], [29.4, 27.1, 19.2]], ["Sigma Dos", "El Mundo", "hasta 22 oct", 0, "14 oct", [31.5, 25.3, 19.5], [30.6, 26.1, 19.9]], ["NC Report", "La Razón", "22-24 oct", 0, "6 oct", [34.1, 25.0, 18.2], [33.1, 25.8, 19.0]], ["ElectoPanel", "Electomanía", "28-30 oct", 1, "25 oct", [30.9, 26.7, 19.0], [31.5, 25.8, 19.2]], ["Sigma Dos", "El Mundo", "29-30 oct", 1, "26 oct", [30.6, 26.1, 19.9], [31.1, 24.6, 19.3]], ["Target Point", "El Debate", "28-30 oct", 1, "6-9 oct", [32.0, 25.9, 18.7], [31.8, 25.5, 19.9]], ["SocioMétrica", "El Español", "hasta 1 nov", 1, "25 oct", [32.0, 27.0, 18.6], [32.2, 26.6, 19.1]]], SEM=[{"d": "2026-08-30", "PP": 32.3, "PSOE": 25.7, "VOX": 18.1, "SUMAR": 6.4, "PODEMOS": 3.6, "SALF": 1.9}, {"d": "2026-09-06", "PP": 32.0, "PSOE": 26.1, "VOX": 18.1, "SUMAR": 6.3, "PODEMOS": 3.6, "SALF": 1.8}, {"d": "2026-09-13", "PP": 32.3, "PSOE": 25.9, "VOX": 18.5, "SUMAR": 6.2, "PODEMOS": 3.4, "SALF": 1.9}, {"d": "2026-09-20", "PP": 32.2, "PSOE": 25.9, "VOX": 18.8, "SUMAR": 5.9, "PODEMOS": 3.3, "SALF": 1.9}, {"d": "2026-09-27", "PP": 33.7, "PSOE": 25.6, "VOX": 18.6, "SUMAR": 6.1, "PODEMOS": 3.3, "SALF": 1.9}, {"d": "2026-10-04", "PP": 33.2, "PSOE": 26.3, "VOX": 18.4, "SUMAR": 6.3, "PODEMOS": 3.3, "SALF": 1.7}, {"d": "2026-10-11", "PP": 32.0, "PSOE": 26.2, "VOX": 18.8, "SUMAR": 6.3, "PODEMOS": 3.2, "SALF": 1.8}, {"d": "2026-10-18", "PP": 31.9, "PSOE": 26.3, "VOX": 18.9, "SUMAR": 6.2, "PODEMOS": 3.0, "SALF": 1.8}, {"d": "2026-10-25", "PP": 31.4, "PSOE": 27.0, "VOX": 18.9, "SUMAR": 6.6, "PODEMOS": 2.6, "SALF": 1.8}, {"d": "2026-11-01", "PP": 31.1, "PSOE": 26.8, "VOX": 19.2, "SUMAR": 7.0, "PODEMOS": 1.9, "SALF": 2.0}];
 const P3=[['PP','--pp'],['PSOE','--psoe'],['Vox','--vox']];
 const PART=[['PP','PP','--pp'],['PSOE','PSOE','--psoe'],['VOX','Vox','--vox'],['SUMAR','Frente Amplio','--sumar'],['PODEMOS','Podemos','--podemos']];
 function el(n,a,p){const e=document.createElementNS(NS,n);for(const k in a)e.setAttribute(k,a[k]);if(p)p.appendChild(e);return e}
@@ -108,7 +108,7 @@ const c1=v=>v.toFixed(1).replace('.',',').replace('-','−'),sg=v=>(v>0?'+':v===
 (function(){const box=document.getElementById('cambios'),tip=tipFor(box);
  const W=Math.max(300,box.clientWidth||640),n=W<500,rh=n?50:42,gap=34,m={l:n?8:200,r:14,t:24,b:26},lo=-2.5,hi=2.5;
  const H=m.t+m.b+rh*CAM.length+gap*2,x=v=>m.l+(v-lo)/(hi-lo)*(W-m.l-m.r);
- const svg=el('svg',{viewBox:`0 0 ${W} ${H}`,role:'img','aria-label':'Cambio de PP, PSOE y Vox en las seis encuestas de la semana respecto a la anterior de cada empresa, antes y después del choque de trenes de Urda'},box);
+ const svg=el('svg',{viewBox:`0 0 ${W} ${H}`,role:'img','aria-label':'Cambio de PP, PSOE y Vox en las siete encuestas de la semana respecto a la anterior de cada empresa, antes y después del choque de trenes de Urda'},box);
  el('text',{x:x(lo)+2,y:13},svg).textContent='← Baja';el('text',{x:x(hi)-2,y:13,'text-anchor':'end'},svg).textContent='Sube →';
  for(let v=lo;v<=hi;v+=.5){if(n&&v%1)continue;el('line',{x1:x(v),x2:x(v),y1:m.t,y2:H-m.b,stroke:v===0?'var(--muted)':'var(--grid)'},svg);el('text',{x:x(v),y:H-6,'text-anchor':'middle'},svg).textContent=v===0?'0':sg(v)}
  let y=m.t;

diff --git a/actualidad/src/construir.py b/actualidad/src/construir.py
@@ -3787,7 +3787,7 @@ PIEZAS += [
 
 PIEZAS += [
     dict(
-        slug='encuestas-antes-despues-urda-29n', fecha='2026-11-02', actualizado='2026-11-03 07:57',
+        slug='encuestas-antes-despues-urda-29n', fecha='2026-11-02', actualizado='2026-11-03 08:07',
         titulo='Cuatro de cuatro: el PSOE baja en todas las encuestas hechas tras el choque de Urda', serie='29n', figura=0,
         foto=dict(src='img/actualidad/fotos/encuestas-antes-despues-urda-29n.jpg', ancho=1280, alto=720, ia=True,
                   pie='Dos montones de cuestionarios separados por un desgarro, uno sobre rojo y otro sobre azul bajo una lupa, junto a una urna: un collage.'),
